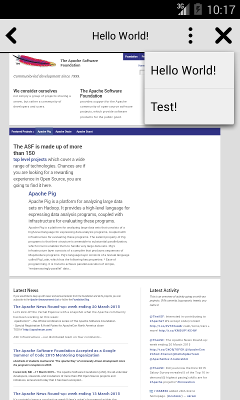
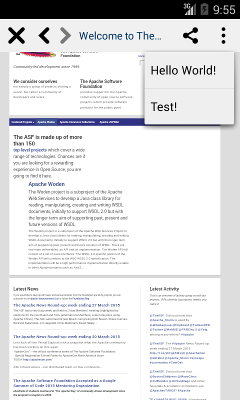
Updated README.md to fully reflect new API.

diff --git a/README.md b/README.md
@@ -87,7 +87,7 @@ This plugin launches an in-app web view on top the existing [CordovaWebView](htt
     }).addEventListener('backPressed', function(e) {
         alert('back pressed');
     }).addEventListener('helloPressed', function(e) {
-        alert('hello');
+        alert('hello pressed');
     }).addEventListener('sharePressed', function(e) {
         alert(e.url);
     });
@@ -159,6 +159,10 @@ You may have noticed that ThemedBrowser added an optional menu as well as custom
 FAQ
 ---
 
+### I just installed this plugin, how come it just shows a blank toolbar?
+
+The purpose of this plugin is to allow **you** style the in app browser the way you want. Isn't that that why you installed this plugin in the first place? Hence it does not come with any defaults. Every UI element needs to be styled by you. This also avoids polluting your resouce bundle with default images.
+
 ### Why does my menu on Android look ugly?
 
 Android menu is simply a [Spinner](http://developer.android.com/guide/topics/ui/controls/spinner.html), which picks up its style from your Activity's theme. By default Cordova uses the very old [Theme.Black.NoTitleBar](http://developer.android.com/reference/android/R.style.html#Theme_Black_NoTitleBar), which is ugly. Open your AndroidManifest.xml and change your `android:theme` attribute to something more morden, such as [Theme.Holo](http://developer.android.com/reference/android/R.style.html#Theme_Holo) or [Base.Theme.AppCompat](http://developer.android.com/reference/android/support/v7/appcompat/R.style.html#Base_Theme_AppCompat) from [support library](https://developer.android.com/tools/support-library/features.html#v7-appcompat).
@@ -188,43 +192,69 @@ Migration
 
 This plugin is **not** a drop-in replacement for InAppBrowser. The biggest change that was made from InAppBrowser, which caused it to be no longer compatible with InAppBrowser's API is that `options` parameter now accepts a JavaScript object instead of string.
 
-    var ref = cordova.ThemeableBrowser.open('http://apache.org', '_blank', {
-        titleStaticText: 'Hello World!',
-        menuItems: [
+    cordova.ThemeableBrowser.open('http://apache.org', '_blank', {
+        customButtons: [
             {
-                event: 'hello',
-                label: 'Hello World!'
+                image: 'share',
+                imagePressed: 'share_pressed',
+                align: 'right',
+                event: 'sharePressed'
             }
-        ]
-    });
-    ref.addEventListener('hello', function(event) {
-        alert(event.url);
+        ],
+        menu: {
+            image: 'menu',
+            imagePressed: 'menu_pressed',
+            items: [
+                {
+                    event: 'helloPressed',
+                    label: 'Hello World!'
+                },
+                {
+                    event: 'testPressed',
+                    label: 'Test!'
+                }
+            ]
+        }
     });
 
-As you can see from above, this allows `menuItems` to have more robust and readable definition.
+As you can see from above, this allows `menu` to have more robust and readable definition.
 
 Furthermore, the object returned by `open` always returns its own instance allowing chaining of methods. Obviously, this breaks the immitation of the `window.open()`, however it's an optional feature that you can choose not to use if you want to stay loyal to the original.
 
     cordova.ThemeableBrowser.open('http://apache.org', '_blank', {
-        titleStaticText: 'Hello World!',
-        menuItems: [
+        customButtons: [
             {
-                event: 'hello',
-                label: 'Hello World!'
-            },
-            {
-                event: 'test',
-                label: 'Test!'
+                image: 'share',
+                imagePressed: 'share_pressed',
+                align: 'right',
+                event: 'sharePressed'
             }
-        ]
-    }).addEventListener('hello', function(event) {
+        ],
+        menu: {
+            image: 'menu',
+            imagePressed: 'menu_pressed',
+            items: [
+                {
+                    event: 'helloPressed',
+                    label: 'Hello World!'
+                },
+                {
+                    event: 'testPressed',
+                    label: 'Test!'
+                }
+            ]
+        }
+    }).addEventListener('sharePressed', function(event) {
         alert(event.url);
-    }).addEventListener('test', function(event) {
+    }).addEventListener('helloPressed', function(event) {
+        alert(event.url);
+    }).addEventListener('testPressed', function(event) {
         alert(event.url);
     });
 
 Two properties from InAppBrowser are disabled.
 + `location` is always `false` because address bar is not needed for an immersive experience of an integrated browser.
++ `toolbar` is redefined to contain toolbar settings and toolbar is always shown, because the whole point why you are using this plugin is to style toolbar right?
 + `toolbarposition` is always `top` to remain consistent across platforms.
 
 License
